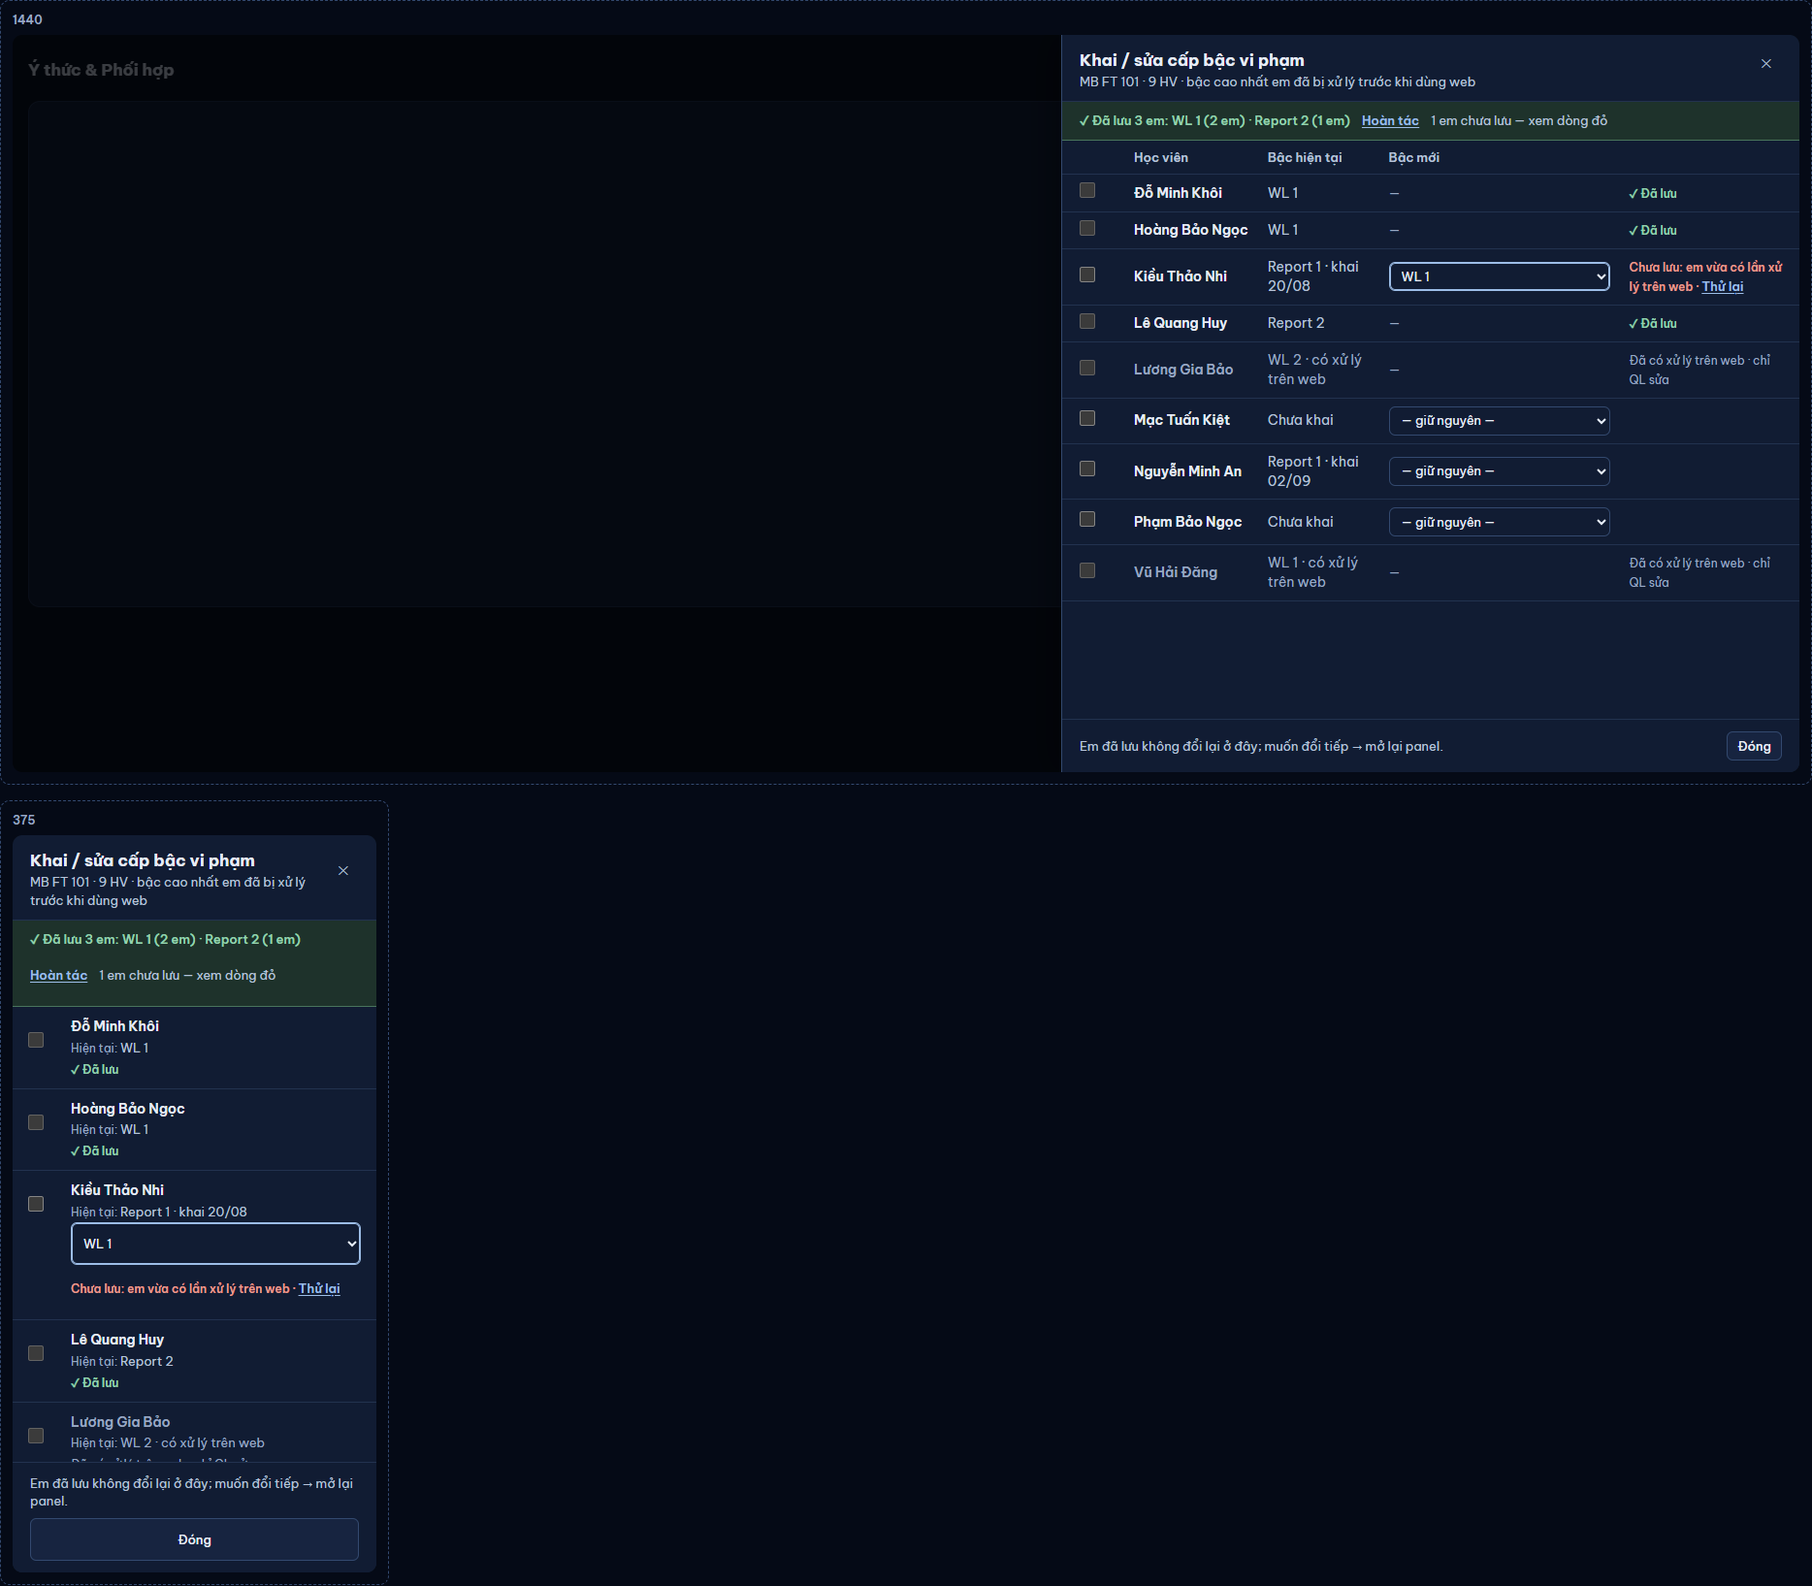
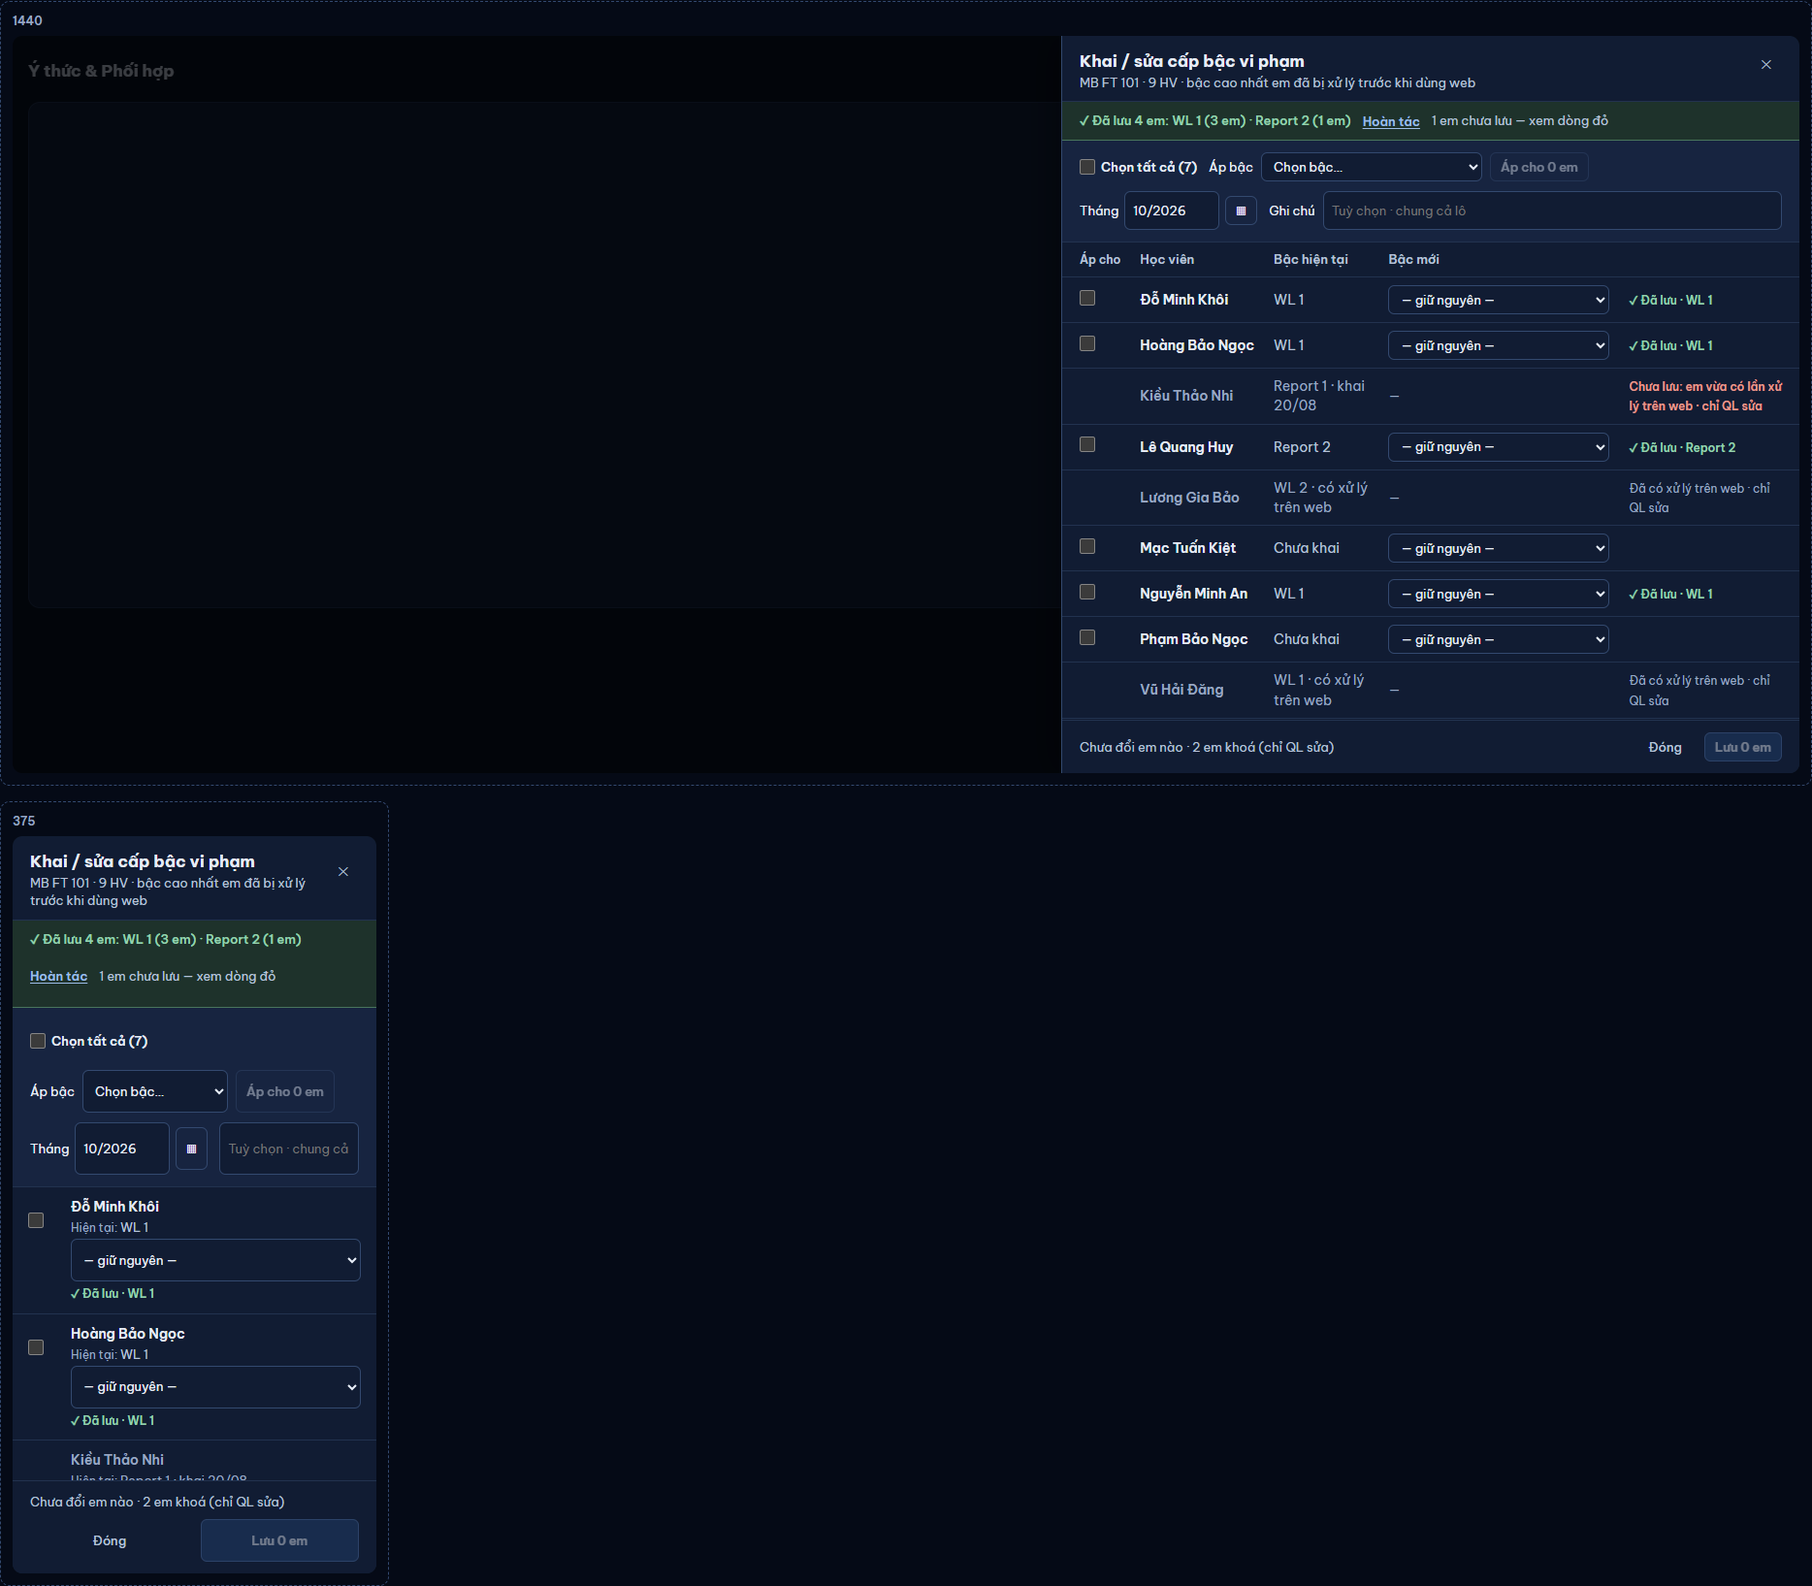
MOCKUP KHAI-BAC-LO: critique vòng 1 (27/40) — panel dùng tiếp sau lưu, lỗi GVCN khoá dòng, ô tick = Áp cho, Áp cho n em, nhãn Khai mới / Nâng / ↓ Hạ, chọn một phần, 375 gọn

diff --git a/thiet-ke/v7/khai-bac-lo.html b/thiet-ke/v7/khai-bac-lo.html
@@ -61,7 +61,7 @@ button, select, input { font: inherit; color: inherit; }
 @container (max-width: 600px) { .btn { min-height: 44px; } .link { min-height: 44px; } }
 
 /* panel phải (KhungPanel rong) */
-.panel { position: absolute; top: 0; right: 0; bottom: 0; width: 760px; background: var(--surface); border-left: 1px solid var(--line-strong); display: grid; grid-template-rows: auto auto 1fr auto; box-shadow: -12px 0 32px rgba(0,0,0,.25); }
+.panel { position: absolute; top: 0; right: 0; bottom: 0; width: 760px; background: var(--surface); border-left: 1px solid var(--line-strong); display: grid; grid-template-rows: auto auto 1fr auto; grid-template-columns: minmax(0, 1fr); box-shadow: -12px 0 32px rgba(0,0,0,.25); }
 @container (max-width: 600px) { .panel { width: 100%; border-left: 0; } }
 .p-dau { display: flex; gap: 10px; align-items: flex-start; padding: 14px 18px 10px; border-bottom: 1px solid var(--line); }
 .p-dau h3 { margin: 0; font-size: 17px; font-weight: 700; } .p-dau .phu-de { font-size: 13px; color: var(--text-dim); }
@@ -74,6 +74,11 @@ button, select, input { font: inherit; color: inherit; }
 .tick { display: inline-flex; align-items: center; gap: 6px; font-weight: 600; cursor: pointer; }
 .tick input { width: 16px; height: 16px; accent-color: var(--accent); margin: 0; }
 @container (max-width: 600px) { .tick { min-height: 44px; } }
+.cong-cu .ap { display: inline-flex; gap: 8px; align-items: center; flex-wrap: wrap; }
+.cong-cu .h2 { flex-wrap: wrap; } .cong-cu .thang { display: inline-flex; gap: 6px; align-items: center; flex: none; }
+.cong-cu .gc { flex: 1 1 120px; min-width: 0; display: flex; gap: 8px; align-items: center; } .cong-cu .gc input { flex: 1; min-width: 0; }
+.bang th.w-tick { font-size: 12px; white-space: nowrap; }
+@container (max-width: 600px) { .cong-cu .ap .o-chon { max-width: 150px; } .cong-cu .gc > span { display: none; } }
 .mo { color: var(--text-faint); } .dim { color: var(--text-dim); }
 .than { overflow-y: auto; }
 .bang { width: 100%; border-collapse: collapse; font-size: 14px; }
@@ -109,7 +114,7 @@ button, select, input { font: inherit; color: inherit; }
   <nav class="dk" aria-label="Chọn trạng thái">
     <b>Trạng thái</b>
     <a href="?tt=sua" data-tt="sua">Đang sửa (đã áp bậc cho 4 em)</a>
-    <a href="?tt=da-luu" data-tt="da-luu">Đã lưu · Hoàn tác · 1 em lỗi</a>
+    <a href="?tt=da-luu" data-tt="da-luu">Đã lưu · Hoàn tác · 1 em lỗi (GVCN: khoá · QL: Thử lại)</a>
     <b>Vai</b>
     <a href="?vai=gvcn" data-vai="gvcn">GVCN</a>
     <a href="?vai=ql" data-vai="ql">QL</a>
@@ -119,10 +124,10 @@ button, select, input { font: inherit; color: inherit; }
   </nav>
   <dl class="ghi">
     <dt>Mở từ</dt><dd>Tab Ý thức hồ sơ lớp: nút "Khai / sửa cấp bậc" ở đầu thẻ (cạnh "Chọn nhiều") · việc "Xác nhận cấp bậc" ở Công việc (dòng gộp theo lớp). Panel mở với MỌI em của lớp — không cần Chọn nhiều trước.</dd>
-    <dt>Thao tác</dt><dd>① "Chọn tất cả" (một chạm; em khoá không được chọn) hoặc tick từng em · ② chọn bậc ở "Áp bậc … cho n em đã chọn" → Áp (đổi ô bậc của các em đó, chưa lưu) · ③ sửa riêng ô bậc dòng nào cũng được · ④ <b>Lưu n em</b>. Em không đổi bậc thì không gửi.</dd>
+    <dt>Thao tác</dt><dd>① "Chọn tất cả" (một chạm; ô gạch khi mới tick một phần) hoặc tick từng em — <b>ô tick chỉ để Áp</b> · ② chọn bậc → "Áp cho n em" (đổi ô Bậc mới của các em đó, chưa lưu) · ③ sửa riêng ô Bậc mới dòng nào cũng được · ④ <b>Lưu n em</b> — lưu theo ô Bậc mới ("— giữ nguyên —" không gửi). Nhãn dòng bằng chữ: Khai mới · Nâng từ … · <b>↓ Hạ từ …</b> (không chặn, không hỏi lại).</dd>
     <dt>Tối giản</dt><dd>Ghi chú KHÔNG bắt buộc (một ô chung cho cả lô; bỏ trống → "Xác nhận theo lớp MB FT 101" như hiện nay) · tháng mặc định tháng này, sửa được · bỏ hàng 7 chip mỗi em → một ô chọn bậc mỗi dòng.</dd>
     <dt>Quyền</dt><dd>Như khai từng em (máy chủ quyết): GVCN khai / sửa khi chuỗi chưa có lần xử lý trên web; QL sửa cả sau đó. Em không đủ quyền: dòng khoá + lý do. Lưu: một lần gọi theo lô, em lỗi báo riêng dòng đó (giữ ô đã chọn + Thử lại), em khác vẫn lưu; nhật ký từng em.</dd>
-    <dt>Sau lưu</dt><dd>Dải "✓ Đã lưu n em · Hoàn tác" (trả bậc cũ cho đúng các em vừa lưu) · panel ở lại để thấy kết quả · Đóng.</dd>
+    <dt>Sau lưu</dt><dd>Dải "✓ Đã lưu n em · Hoàn tác" (trả bậc cũ cho đúng các em vừa lưu) ở trên công cụ · panel DÙNG TIẾP được (ô bậc về "giữ nguyên", Lưu lại khi đổi tiếp) · em lỗi: GVCN gặp "em vừa có xử lý trên web" → dòng khoá "chỉ QL sửa" (không mời Thử lại); lỗi mạng / máy chủ → giữ ô đã chọn + Thử lại. Đóng / ✕ khi còn đổi chưa lưu → hỏi "Bỏ thay đổi của n em?" (khung panel `daSua` sẵn có).</dd>
     <dt>Giữ</dt><dd>Khai / sửa từng em ở hồ sơ HV (`KhaiBacPanel`, ghi chú vẫn tuỳ chọn như lô) · Chọn nhiều → Xác nhận cấp bậc (cùng panel này, chỉ các em đã chọn).</dd>
   </dl>
   <section class="hai-khung" aria-label="Khung giao diện">
@@ -141,60 +146,72 @@ button, select, input { font: inherit; color: inherit; }
     if ((q.get(k) || (k === 'tt' ? 'sua' : k === 'vai' ? 'gvcn' : 'dark')) === v) a.setAttribute('aria-current', 'true');
   });
   var BAC = ['Chưa có xử lý', 'Report 1', 'Report 2', 'WL 1', 'Report 4 + Meeting CX/GĐCN', 'Report 5', 'WL 2'];
-  /* [tên, bậc hiện tại (null = chưa khai), ghi hiện tại, bậc mới, chọn, khoá (gvcn)] */
+  /* [tên, bậc hiện tại (null = chưa khai), ghi hiện tại, bậc mới (null = giữ nguyên), tick "Áp cho", khoá với GVCN, sửa riêng] */
   var EM = [
     ['Đỗ Minh Khôi', null, 'Chưa khai', 3, true, false],
     ['Hoàng Bảo Ngọc', null, 'Chưa khai', 3, true, false],
     ['Kiều Thảo Nhi', 1, 'Report 1 · khai 20/08', 3, true, false],
-    ['Lê Quang Huy', null, 'Chưa khai', 2, true, false, 'riêng'],
+    ['Lê Quang Huy', null, 'Chưa khai', 2, true, false, true],
     ['Lương Gia Bảo', 6, 'WL 2 · có xử lý trên web', null, false, true],
     ['Mạc Tuấn Kiệt', null, 'Chưa khai', null, false, false],
-    ['Nguyễn Minh An', 1, 'Report 1 · khai 02/09', null, false, false],
+    ['Nguyễn Minh An', 6, 'WL 2 · khai 02/09', 3, true, false],
     ['Phạm Bảo Ngọc', null, 'Chưa khai', null, false, false],
     ['Vũ Hải Đăng', 3, 'WL 1 · có xử lý trên web', null, false, true]
   ];
-  function chon(bac, doi, nhan) {
-    return '<select class="o-chon' + (doi ? ' doi' : '') + '" aria-label="Bậc mới của ' + nhan + '"><option>— giữ nguyên —</option>' +
+  var daLuu = tt === 'da-luu';
+  var LOI = 2;   /* Kiều Thảo Nhi: lỗi riêng khi lưu */
+  function chon(bac, doi, nhan, goi) {
+    return '<select class="o-chon' + (doi ? ' doi' : '') + '" aria-label="' + nhan + '"><option>' + (goi || '— giữ nguyên —') + '</option>' +
       BAC.map(function (b, i) { return '<option' + (bac === i ? ' selected' : '') + '>' + b + '</option>'; }).join('') + '</select>';
   }
+  /* Nhãn đổi bằng CHỮ (không chỉ màu): khai mới · nâng · ↓ hạ — không chặn, không hỏi lại. */
+  function nhanDoi(e) {
+    var rieng = e[6] ? ' · sửa riêng' : '';
+    if (e[1] === null) return 'Khai mới' + rieng;
+    return (e[3] < e[1] ? '↓ Hạ từ ' : 'Nâng từ ') + BAC[e[1]] + rieng;
+  }
   function hang(e, i) {
-    var khoa = e[5] && !ql, daLuu = tt === 'da-luu';
-    var loi = daLuu && i === 2, ok = daLuu && e[4] && !loi;
-    var ghi = khoa ? '<span class="ghi-chu-hang">Đã có xử lý trên web · chỉ QL sửa</span>'
-      : loi ? '<span class="ghi-chu-hang loi">Chưa lưu: em vừa có lần xử lý trên web · <button class="link" type="button">Thử lại</button></span>'
-      : ok ? '<span class="ghi-chu-hang ok">✓ Đã lưu</span>'
-      : e[3] !== null ? '<span class="ghi-chu-hang doi">' + (e[6] ? 'Sửa riêng' : 'Đổi') + '</span>' : '';
+    var khoaGoc = e[5] && !ql;
+    var loi = daLuu && i === LOI, ok = daLuu && e[3] !== null && !loi && !khoaGoc;
+    var khoa = khoaGoc || (loi && !ql);
+    var ghi = khoaGoc ? '<span class="ghi-chu-hang">Đã có xử lý trên web · chỉ QL sửa</span>'
+      : loi && !ql ? '<span class="ghi-chu-hang loi">Chưa lưu: em vừa có lần xử lý trên web · chỉ QL sửa</span>'
+      : loi ? '<span class="ghi-chu-hang loi">Chưa lưu: mất kết nối · <button class="link" type="button">Thử lại</button></span>'
+      : ok ? '<span class="ghi-chu-hang ok">✓ Đã lưu · ' + BAC[e[3]] + '</span>'
+      : e[3] !== null ? '<span class="ghi-chu-hang doi">' + nhanDoi(e) + '</span>' : '';
     var hien = ok ? BAC[e[3]] : e[2];
+    var bacMoi = daLuu && !loi ? null : e[3];
     return '<tr class="' + (khoa ? 'khoa' : e[4] && !daLuu ? 'chon' : '') + '">' +
-      '<td class="w-tick"><label class="tick"><input type="checkbox"' + (e[4] && !daLuu ? ' checked' : '') + (khoa || ok ? ' disabled' : '') + ' aria-label="Chọn ' + e[0] + '"></label></td>' +
+      '<td class="w-tick">' + (khoa ? '' : '<label class="tick"><input type="checkbox"' + (e[4] && !daLuu ? ' checked' : '') + ' aria-label="Áp cho ' + e[0] + '"></label>') + '</td>' +
       '<td class="ten">' + e[0] + '</td>' +
       '<td class="c-hien dim">' + hien + '</td>' +
-      '<td class="c-moi">' + (khoa ? '<span class="mo">—</span>' : ok ? '<span class="mo">—</span>' : chon(e[3], e[3] !== null, e[0])) + '</td>' +
+      '<td class="c-moi">' + (khoa ? '<span class="mo">—</span>' : chon(bacMoi, bacMoi !== null, 'Bậc mới của ' + e[0])) + '</td>' +
       '<td>' + ghi + '</td></tr>';
   }
   function web() {
-    var soChon = EM.filter(function (e) { return e[4]; }).length, soKhoa = ql ? 0 : EM.filter(function (e) { return e[5]; }).length;
-    var daLuu = tt === 'da-luu';
+    var duocChon = EM.filter(function (e) { return !(e[5] && !ql); }).length;
+    var soChon = daLuu ? 0 : EM.filter(function (e) { return e[4]; }).length;
+    var soKhoa = EM.length - duocChon;
     var nen = '<div class="nen-lop" aria-hidden="true"><div class="dong"><h2>Ý thức &amp; Phối hợp</h2><span class="btn">Chọn nhiều</span><span class="btn">Khai / sửa cấp bậc</span><span class="btn chinh">+ Ghi vi phạm</span></div><div class="the"></div></div><div class="phu"></div>';
     var dau = '<div class="p-dau"><div><h3>Khai / sửa cấp bậc vi phạm</h3><div class="phu-de">MB FT 101 · ' + EM.length + ' HV · bậc cao nhất em đã bị xử lý trước khi dùng web</div></div><button class="btn ma dong-x" type="button" aria-label="Đóng">✕</button></div>';
-    var cc = daLuu
-      ? '<div class="dai-ok" role="status">✓ Đã lưu 3 em: WL 1 (2 em) · Report 2 (1 em) <button class="link" type="button">Hoàn tác</button><span class="dim">1 em chưa lưu — xem dòng đỏ</span></div>'
-      : '<div class="cong-cu">' +
-        '<div class="h"><label class="tick"><input type="checkbox" aria-label="Chọn tất cả"' + (soChon === EM.length - soKhoa ? ' checked' : '') + '> Chọn tất cả (' + (EM.length - soKhoa) + ')</label>' +
-        '<span class="dim">Đã chọn <b class="so">' + soChon + '</b></span>' +
-        '<span style="display:inline-flex;gap:8px;align-items:center;flex-wrap:wrap">Áp bậc ' + chon(3, false, 'các em đã chọn').replace('— giữ nguyên —', 'Chọn bậc…') + ' cho ' + soChon + ' em <button class="btn" type="button">Áp</button></span></div>' +
-        '<div class="h"><span style="display:inline-flex;gap:6px;align-items:center">Tháng xử lý <input class="o-chon so" value="10/2026" aria-label="Tháng xử lý (mm/yyyy)" style="width:88px"><button class="btn" type="button" aria-label="Mở lịch tháng">▦</button></span>' +
-        '<label style="flex:1;min-width:220px;display:flex;gap:8px;align-items:center">Ghi chú <input class="o-chon" style="flex:1" placeholder="Tuỳ chọn · chung cho cả lô" aria-label="Ghi chú chung"></label></div></div>';
-    var bang = '<div class="than"><table class="bang"><thead><tr><th class="w-tick"><span class="sr" style="position:absolute;clip:rect(0 0 0 0)">Chọn</span></th><th>Học viên</th><th>Bậc hiện tại</th><th>Bậc mới</th><th></th></tr></thead><tbody>' +
+    var ok = daLuu ? '<div class="dai-ok" role="status">✓ Đã lưu 4 em: WL 1 (3 em) · Report 2 (1 em) <button class="link" type="button">Hoàn tác</button><span class="dim">1 em chưa lưu — xem dòng đỏ</span></div>' : '';
+    var cc = '<div class="cong-cu">' +
+      '<div class="h"><label class="tick"><input type="checkbox" class="mot-phan" aria-label="Chọn tất cả"> Chọn tất cả (' + duocChon + ')</label>' +
+      '<span class="ap">Áp bậc ' + chon(daLuu ? null : 3, false, 'Bậc áp cho các em đã tick', 'Chọn bậc…') +
+      '<button class="btn" type="button"' + (soChon ? '' : ' disabled') + '>Áp cho ' + soChon + ' em</button></span></div>' +
+      '<div class="h h2"><span class="thang">Tháng <input class="o-chon so" value="10/2026" aria-label="Tháng xử lý (mm/yyyy)" style="width:80px"><button class="btn" type="button" aria-label="Mở lịch tháng">▦</button></span>' +
+      '<label class="gc"><span>Ghi chú</span> <input class="o-chon" placeholder="Tuỳ chọn · chung cả lô" aria-label="Ghi chú chung"></label></div></div>';
+    var bang = '<div class="than"><table class="bang"><thead><tr><th class="w-tick">Áp cho</th><th>Học viên</th><th>Bậc hiện tại</th><th>Bậc mới</th><th></th></tr></thead><tbody>' +
       EM.map(hang).join('') + '</tbody></table></div>';
-    var soDoi = EM.filter(function (e) { return e[3] !== null && !(e[5] && !ql); }).length;
-    var chan = daLuu
-      ? '<div class="chan"><span class="trai">Em đã lưu không đổi lại ở đây; muốn đổi tiếp → mở lại panel.</span><button class="btn" type="button">Đóng</button></div>'
-      : '<div class="chan"><span class="trai">' + soDoi + ' em đổi bậc · ' + (soKhoa ? soKhoa + ' em khoá (đã có xử lý trên web)' : 'QL sửa được mọi em') + '</span><button class="btn ma" type="button">Huỷ</button><button class="btn chinh" type="button"><span class="cua-toi" aria-hidden="true"></span>Lưu ' + soDoi + ' em</button></div>';
-    return nen + '<aside class="panel" role="dialog" aria-label="Khai / sửa cấp bậc vi phạm">' + dau + cc + bang + chan + '</aside>';
+    var soDoi = daLuu ? (ql ? 1 : 0) : EM.filter(function (e) { return e[3] !== null && !(e[5] && !ql); }).length;
+    var chan = '<div class="chan"><span class="trai">' + (soDoi ? soDoi + ' em đổi bậc' : 'Chưa đổi em nào') + (soKhoa ? ' · ' + soKhoa + ' em khoá (chỉ QL sửa)' : '') + '</span>' +
+      '<button class="btn ma" type="button">' + (soDoi ? 'Huỷ' : 'Đóng') + '</button><button class="btn chinh" type="button"' + (soDoi ? '' : ' disabled') + '>Lưu ' + soDoi + ' em</button></div>';
+    return nen + '<aside class="panel" role="dialog" aria-label="Khai / sửa cấp bậc vi phạm">' + dau + '<div class="tren">' + ok + cc + '</div>' + bang + chan + '</aside>';
   }
   document.getElementById('w1440').innerHTML = web();
   document.getElementById('w375').innerHTML = web();
+  /* "Chọn tất cả" chọn một phần: dấu gạch (indeterminate) khi 0 < đã tick < số em chọn được. */
+  if (!daLuu) document.querySelectorAll('.mot-phan').forEach(function (x) { x.indeterminate = true; });
 })();
 </script>
 </body>
